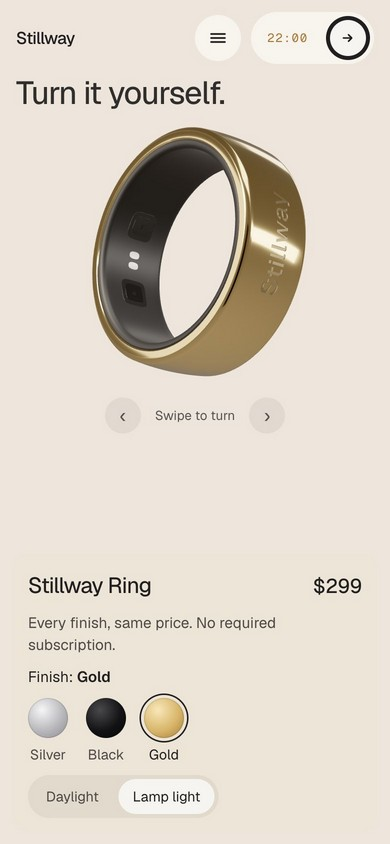
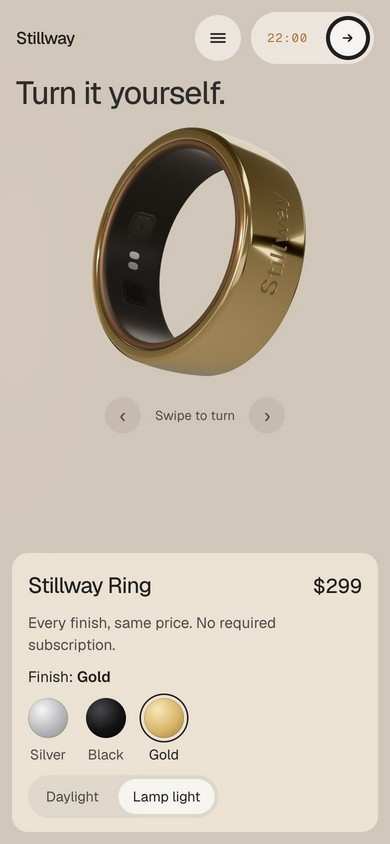
fix(web-v2): D-100 Lamp light is a warm desk lamp, not the Lamp env
Daylight and Lamp light looked the same after the Lamp env was lifted for
Gold. Lamp light now adds one warm desk lamp from the side (amber edge
highlight, readable on Silver, Black and Gold) and dims the env a little;
base colours stay as in Daylight, so Gold keeps its 18K yellow. The Sand
ground dims toward a warm evening tone with a low lamp glow on the lamp
side, and the panel warms (0.6 s; instant for reduced motion). The Lamp
env (v2-env-lamp.exr) is no longer loaded and is removed from public/.

diff --git a/web-v2/src/scripts/ring/stage.ts b/web-v2/src/scripts/ring/stage.ts
@@ -47,7 +47,7 @@ export async function createRingStage(canvas: HTMLCanvasElement): Promise<RingSt
   const camera = new THREE.PerspectiveCamera(FOV, 1, 1, 40000);
 
   const pmrem = new THREE.PMREMGenerator(renderer);
-  const envs: { paper?: THREE.Texture; night?: THREE.Texture; dusk?: THREE.Texture; lamp?: THREE.Texture } = {};
+  const envs: { paper?: THREE.Texture; night?: THREE.Texture; dusk?: THREE.Texture } = {};
   /** photo → paper blends, index 0 = photo env (S01), last = paper env (S02); see buildBlends */
   let blends: THREE.Texture[] = [];
   const BLEND_STEPS = 9;
@@ -105,7 +105,6 @@ export async function createRingStage(canvas: HTMLCanvasElement): Promise<RingSt
   // night env after the first paint of the ring
   setTimeout(() => loadEnv(RING_MODEL.env.night).then((e) => ((envs.night = e), (lastEnv = ''))).catch(() => {}), 300);
   setTimeout(() => loadEnv(RING_MODEL.env.dusk).then((e) => ((envs.dusk = e), (lastEnv = ''))).catch(() => {}), 900);
-  setTimeout(() => loadEnv(RING_MODEL.env.lamp).then((e) => ((envs.lamp = e), (lastEnv = ''))).catch(() => {}), 1500);
   const loadEnv = (url: string) =>
     new EXRLoader().loadAsync(url).then((t) => {
       t.mapping = THREE.EquirectangularReflectionMapping;
@@ -132,6 +131,13 @@ export async function createRingStage(canvas: HTMLCanvasElement): Promise<RingSt
   const warmRim = new THREE.DirectionalLight(0xe0a35c, 0);
   warmRim.position.set(-900, -520, 260);
   scene.add(warmRim);
+  // S10 Lamp light (D-100): one warm desk lamp from the side — an amber highlight along the band edge
+  // facing it, readable on all three finishes (Black included); the env and base colours stay as in
+  // Daylight, so Gold keeps its 18K yellow (the Lamp env made it brownish)
+  const deskLamp = new THREE.DirectionalLight(0xffa451, 0);
+  deskLamp.position.set(-900, 300, 700);
+  const deskFill = new THREE.PointLight(0xff9a3c, 0, 0, 0);
+  scene.add(deskLamp, deskFill);
   // V1 live cast shadow on the stone (D-051): a shadow-only light and a transparent catcher plane
   renderer.shadowMap.enabled = true;
   renderer.shadowMap.type = THREE.PCFSoftShadowMap;
@@ -356,6 +362,12 @@ export async function createRingStage(canvas: HTMLCanvasElement): Promise<RingSt
     rim.intensity = 14 * p.rim;
     rimFill.intensity = 3.2 * p.rim;
     warmRim.intensity = 7 * p.warm;
+    const lp = Math.min(1, Math.max(0, p.lamp));
+    deskLamp.intensity = 9 * lp;
+    // a soft close fill on the lamp side so the edge glows rather than shows one sharp line
+    deskFill.intensity = 2.2 * lp;
+    deskFill.position.set(pivot.position.x - w * 1.1, pivot.position.y + w * 0.45, w * 0.6);
+    deskFill.distance = w * 2.6;
     const sh = Math.max(0, p.shadow);
     catcher.visible = sh > 0.005;
     shadowSun.castShadow = catcher.visible;
@@ -380,18 +392,17 @@ export async function createRingStage(canvas: HTMLCanvasElement): Promise<RingSt
     // photo ↔ paper: step through the prebuilt blends (no pop); paper ↔ night: dip and swap at 0.5
     const step = blends.length ? Math.round((1 - ph) * (blends.length - 1)) : -1;
     const dk = Math.min(1, Math.max(0, p.dusk));
-    const lp = Math.min(1, Math.max(0, p.lamp));
-    const key = dk >= 0.5 && envs.dusk ? 'dusk' : n >= 0.5 && envs.night ? 'night' : lp >= 0.5 && envs.lamp ? 'lamp' : step >= 0 ? `blend${step}` : 'paper';
+    const key = dk >= 0.5 && envs.dusk ? 'dusk' : n >= 0.5 && envs.night ? 'night' : step >= 0 ? `blend${step}` : 'paper';
     if (key !== lastEnv) {
       lastEnv = key;
-      scene.environment = key === 'dusk' ? envs.dusk! : key === 'night' ? envs.night! : key === 'lamp' ? envs.lamp! : step >= 0 ? blends[step] : envs.paper ?? null;
+      scene.environment = key === 'dusk' ? envs.dusk! : key === 'night' ? envs.night! : step >= 0 ? blends[step] : envs.paper ?? null;
     }
     renderer.toneMappingExposure = 1.0 + 0.15 * ph; // V1 hero exposure 1.15 → 1.0, continuous
-    const dip = Math.min(1, Math.abs(n - 0.5) * 2.5, Math.abs(dk - 0.5) * 2.5, Math.abs(lp - 0.5) * 2.5);
+    const dip = Math.min(1, Math.abs(n - 0.5) * 2.5, Math.abs(dk - 0.5) * 2.5);
     // on Night the polished env is almost black: lift it with the rim so the band keeps a silver gradient
     // the swap dip never goes below 0.45, so the ring is never a black shape in a connection (D-090 r1)
-    // the Lamp env is darker than the studio: lift it so finishes keep their brightness under it
-    scene.environmentIntensity = (0.45 + 0.55 * dip) * (1 + 1.4 * p.rim) * (1 + 0.7 * lp);
+    // under the desk lamp the room is a little dimmer (evening), so the amber edge reads (D-100)
+    scene.environmentIntensity = (0.45 + 0.55 * dip) * (1 + 1.4 * p.rim) * (1 - 0.12 * lp);
 
     const ledKey = p.led.toFixed(3) + '|' + p.ledc.toFixed(3);
     if (ledKey !== lastLedKey) {

diff --git a/web-v2/src/scripts/ring/poses.ts b/web-v2/src/scripts/ring/poses.ts
@@ -30,7 +30,8 @@
  *        band (S08, client LED reference).
  * custom: 0..1 how much of the visitor's finish choice shows (S10–S11; 0 = polished Silver as everywhere
  *         else). finA → finB by finT (0 silver, 1 black, 2 gold; finishes.json *_polished, D-085).
- * lamp: 0..1 Lamp light env (finishes.json envPresets.lamp), swapped at 0.5 with a dip (S10 toggle).
+ * lamp: 0..1 S10 Lamp light (D-100): one warm desk lamp from the side (amber edge highlight), env dimmed
+ *       a little; base colours unchanged.
  * alpha: canvas opacity (the ring is the only object, so fading the canvas fades the ring).
  */
 export interface Pose {

diff --git a/web-v2/src/scripts/ring/model.ts b/web-v2/src/scripts/ring/model.ts
@@ -28,7 +28,6 @@ export const RING_MODEL = {
     paper: '/env/v2-env-paper-polished.exr', // S02 (3D Designer 16cfbaf: made for the polished finish)
     night: '/env/v2-env-night-polished.exr', // S03
     dusk: '/env/v2-env-dusk.exr', // S05 (3D Designer: low ochre sun and glow, dark sky)
-    lamp: '/env/v2-env-lamp.exr', // S10 Lamp light toggle (D-079: neutral enough for Gold)
     photo: '/env/hero-env.jpg', // S01 over the moss photograph (V1 approach, D-080)
   },
 } as const;
